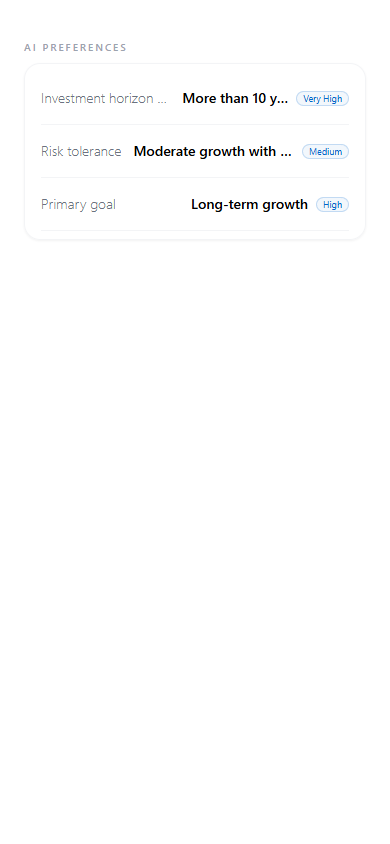
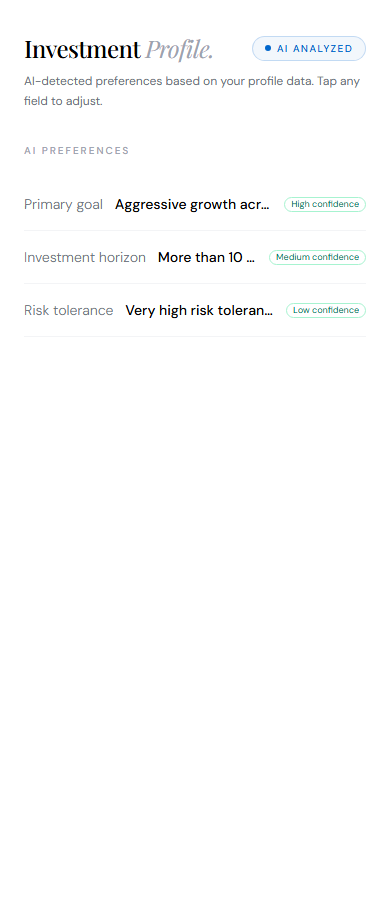
Add profile badge wrapping proof

diff --git a/tests/hushhUserProfileBadgeWrappingVisual.spec.ts b/tests/hushhUserProfileBadgeWrappingVisual.spec.ts
@@ -1,0 +1,139 @@
+import { expect, test, type Page } from "@playwright/test";
+
+const rowMarkup = `
+  <main class="mx-auto w-full max-w-md bg-white px-6 py-8 text-gray-900">
+    <section class="mb-12">
+      <div class="mb-8">
+        <div class="mb-2 flex items-center justify-between">
+          <h2 class="font-serif text-2xl font-medium tracking-tight text-black">
+            Investment <span class="font-light italic text-gray-400">Profile.</span>
+          </h2>
+          <span class="inline-flex items-center gap-1.5 rounded-full border border-hushh-blue/20 bg-hushh-blue/5 px-3 py-1">
+            <span class="h-1.5 w-1.5 rounded-full bg-hushh-blue"></span>
+            <span class="text-[10px] font-medium uppercase tracking-[0.14em] text-hushh-blue">AI Analyzed</span>
+          </span>
+        </div>
+        <p class="text-xs leading-relaxed text-gray-500">
+          AI-detected preferences based on your profile data. Tap any field to adjust.
+        </p>
+      </div>
+
+      <p class="mb-4 mt-2 text-[10px] font-medium uppercase tracking-[0.2em] text-gray-400">AI Preferences</p>
+      <div class="py-1" data-testid="profile-row-list">
+        ${[
+          ["Primary goal", "Aggressive growth across concentrated AI infrastructure and private market opportunities", "High confidence"],
+          ["Investment horizon", "More than 10 years with opportunistic liquidity windows", "Medium confidence"],
+          ["Risk tolerance", "Very high risk tolerance with active private market participation", "Low confidence"],
+        ]
+          .map(
+            ([label, value, confidence]) => `
+              <div
+                class="group flex cursor-pointer items-center justify-between gap-3 border-b border-gray-100 py-4 transition-colors hover:bg-gray-50/50"
+                role="button"
+                tabindex="0"
+                aria-label="Edit ${label}"
+                data-testid="profile-row"
+              >
+                <span class="max-w-[42%] shrink-0 truncate text-sm font-light text-gray-500">${label}</span>
+                <div class="flex min-w-0 flex-1 items-center justify-end gap-2">
+                  <span class="min-w-0 max-w-full truncate text-right text-sm font-medium text-black">${value}</span>
+                  <span class="shrink-0 whitespace-nowrap rounded-full border border-emerald-200 px-1.5 py-0.5 text-[9px] leading-none text-emerald-700">${confidence}</span>
+                </div>
+              </div>
+            `,
+          )
+          .join("")}
+      </div>
+    </section>
+  </main>
+`;
+
+async function mockWalletModule(page: Page) {
+  await page.route("**/api/shared/walletPassModel.js", async (route) => {
+    await route.fulfill({
+      status: 200,
+      contentType: "text/javascript",
+      body: `
+        export const buildGoldPassPayload = () => ({});
+        export const buildWalletCardContent = () => ({});
+      `,
+    });
+  });
+}
+
+async function renderProfileRowFixture(page: Page) {
+  await mockWalletModule(page);
+
+  const baseURL = process.env.PLAYWRIGHT_BASE_URL || "http://127.0.0.1:4173";
+  await page.goto(baseURL, { waitUntil: "domcontentloaded" });
+
+  await page.evaluate((markup) => {
+    const root = document.querySelector("#root");
+    if (!root) {
+      throw new Error("Missing Vite app root");
+    }
+
+    root.innerHTML = markup;
+  }, rowMarkup);
+}
+
+async function expectRowsToKeepBadgesReadable(page: Page) {
+  const rows = page.getByTestId("profile-row");
+  await expect(rows).toHaveCount(3);
+
+  for (const row of await rows.all()) {
+    await expect(row).toBeVisible();
+
+    const metrics = await row.evaluate((element) => {
+      const value = element.querySelector("div > span:first-child");
+      const badge = element.querySelector("div > span:nth-child(2)");
+
+      if (!(value instanceof HTMLElement) || !(badge instanceof HTMLElement)) {
+        throw new Error("Missing value or badge");
+      }
+
+      const rowRect = element.getBoundingClientRect();
+      const badgeRect = badge.getBoundingClientRect();
+
+      return {
+        rowOverflows: element.scrollWidth > element.clientWidth + 1,
+        valueOverflow: getComputedStyle(value).overflowX,
+        valueTextOverflow: getComputedStyle(value).textOverflow,
+        valueWhiteSpace: getComputedStyle(value).whiteSpace,
+        badgeWraps: badge.getClientRects().length > 1,
+        badgeWidth: badgeRect.width,
+        badgeRightInsideRow: badgeRect.right <= rowRect.right + 1,
+        badgeLeftInsideRow: badgeRect.left >= rowRect.left - 1,
+      };
+    });
+
+    expect(metrics.rowOverflows).toBe(false);
+    expect(metrics.valueOverflow).toBe("hidden");
+    expect(metrics.valueTextOverflow).toBe("ellipsis");
+    expect(metrics.valueWhiteSpace).toBe("nowrap");
+    expect(metrics.badgeWraps).toBe(false);
+    expect(metrics.badgeWidth).toBeGreaterThan(0);
+    expect(metrics.badgeLeftInsideRow).toBe(true);
+    expect(metrics.badgeRightInsideRow).toBe(true);
+  }
+}
+
+test.describe("Hushh user profile badge wrapping proof", () => {
+  for (const viewport of [
+    { name: "mobile", width: 390, height: 900 },
+    { name: "desktop", width: 1440, height: 900 },
+  ]) {
+    test(`keeps profile confidence badges readable on ${viewport.name}`, async ({
+      page,
+    }, testInfo) => {
+      await page.setViewportSize(viewport);
+      await renderProfileRowFixture(page);
+      await expectRowsToKeepBadgesReadable(page);
+
+      await page.screenshot({
+        path: testInfo.outputPath(`profile-badge-wrapping-${viewport.name}.png`),
+        fullPage: true,
+      });
+    });
+  }
+});

diff --git a/tests/hushhUserProfilePrivacyShield.test.ts b/tests/hushhUserProfilePrivacyShield.test.ts
@@ -8,8 +8,12 @@ import { afterEach, beforeEach, describe, expect, it, vi } from "vitest";
 const useHushhUserProfileLogicMock = vi.hoisted(() => vi.fn());
 
 vi.mock("../src/pages/hushh-user-profile/logic", () => ({
-  FIELD_LABELS: {},
-  VALUE_LABELS: {},
+  FIELD_LABELS: {
+    primary_goal: "Primary goal",
+  },
+  VALUE_LABELS: {
+    aggressive_growth: "Aggressive growth across concentrated AI infrastructure and private market opportunities",
+  },
   useHushhUserProfileLogic: () => useHushhUserProfileLogicMock(),
 }));
 
@@ -144,5 +148,53 @@ describe("HushhUserProfile PrivacyShield integration", () => {
     expect(
       container.querySelectorAll('input[role="switch"]'),
     ).toHaveLength(2);
+  });
+
+  it("keeps AI preference confidence badges from wrapping while values truncate", async () => {
+    const getConfidenceLabel = vi.fn(() => "High confidence");
+    const getConfidenceBadgeClass = vi.fn(() => "border-emerald-200 text-emerald-700");
+
+    useHushhUserProfileLogicMock.mockReturnValue({
+      ...useHushhUserProfileLogicMock(),
+      investorProfile: {
+        primary_goal: {
+          value: "aggressive_growth",
+          confidence: 0.91,
+        },
+      },
+      getConfidenceLabel,
+      getConfidenceBadgeClass,
+    });
+
+    await act(async () => {
+      root.render(React.createElement(HushhUserProfilePage));
+    });
+
+    const row = container.querySelector(
+      '[aria-label="Edit Primary goal"]',
+    ) as HTMLElement | null;
+    expect(row).not.toBeNull();
+    expect(row?.className).toContain("gap-3");
+
+    const label = row?.querySelector("span:first-child") as HTMLElement | null;
+    expect(label?.className).toContain("max-w-[42%]");
+    expect(label?.className).toContain("truncate");
+
+    const valueGroup = row?.querySelector("div") as HTMLElement | null;
+    expect(valueGroup?.className).toContain("min-w-0");
+    expect(valueGroup?.className).toContain("flex-1");
+
+    const value = valueGroup?.querySelector("span:first-child") as HTMLElement | null;
+    expect(value?.textContent).toContain("Aggressive growth");
+    expect(value?.className).toContain("min-w-0");
+    expect(value?.className).toContain("max-w-full");
+    expect(value?.className).toContain("truncate");
+    expect(value?.className).toContain("text-right");
+
+    const badge = valueGroup?.querySelector("span:nth-child(2)") as HTMLElement | null;
+    expect(badge?.textContent).toBe("High confidence");
+    expect(badge?.className).toContain("shrink-0");
+    expect(badge?.className).toContain("whitespace-nowrap");
+    expect(badge?.className).toContain("leading-none");
   });
 });

diff --git a/docs/pr-proof/pr-1345/README.md b/docs/pr-proof/pr-1345/README.md
@@ -2,8 +2,15 @@
 
 Surface: `src/pages/hushh-user-profile/ui.tsx` AI preference rows
 
-Proof captured from a temporary local Vite fixture using the same row classes as the authenticated profile preference UI. The fixture uses long preference values plus confidence badges to exercise the mobile badge wrapping behavior.
+Proof captured from a temporary local Vite fixture using the same row classes as the authenticated profile preference UI. The fixture uses long preference values plus confidence badges to exercise the badge wrapping and row overflow behavior on mobile and desktop.
+
+Command:
+
+```powershell
+npx.cmd playwright test tests/hushhUserProfileBadgeWrappingVisual.spec.ts
+```
 
 Screenshots:
 
 - `profile-badge-wrapping-mobile.png` - mobile profile preference rows with truncated labels/values and non-wrapping confidence badges.
+- `profile-badge-wrapping-desktop.png` - desktop viewport proof that the same profile rows still read cleanly outside the mobile case.
